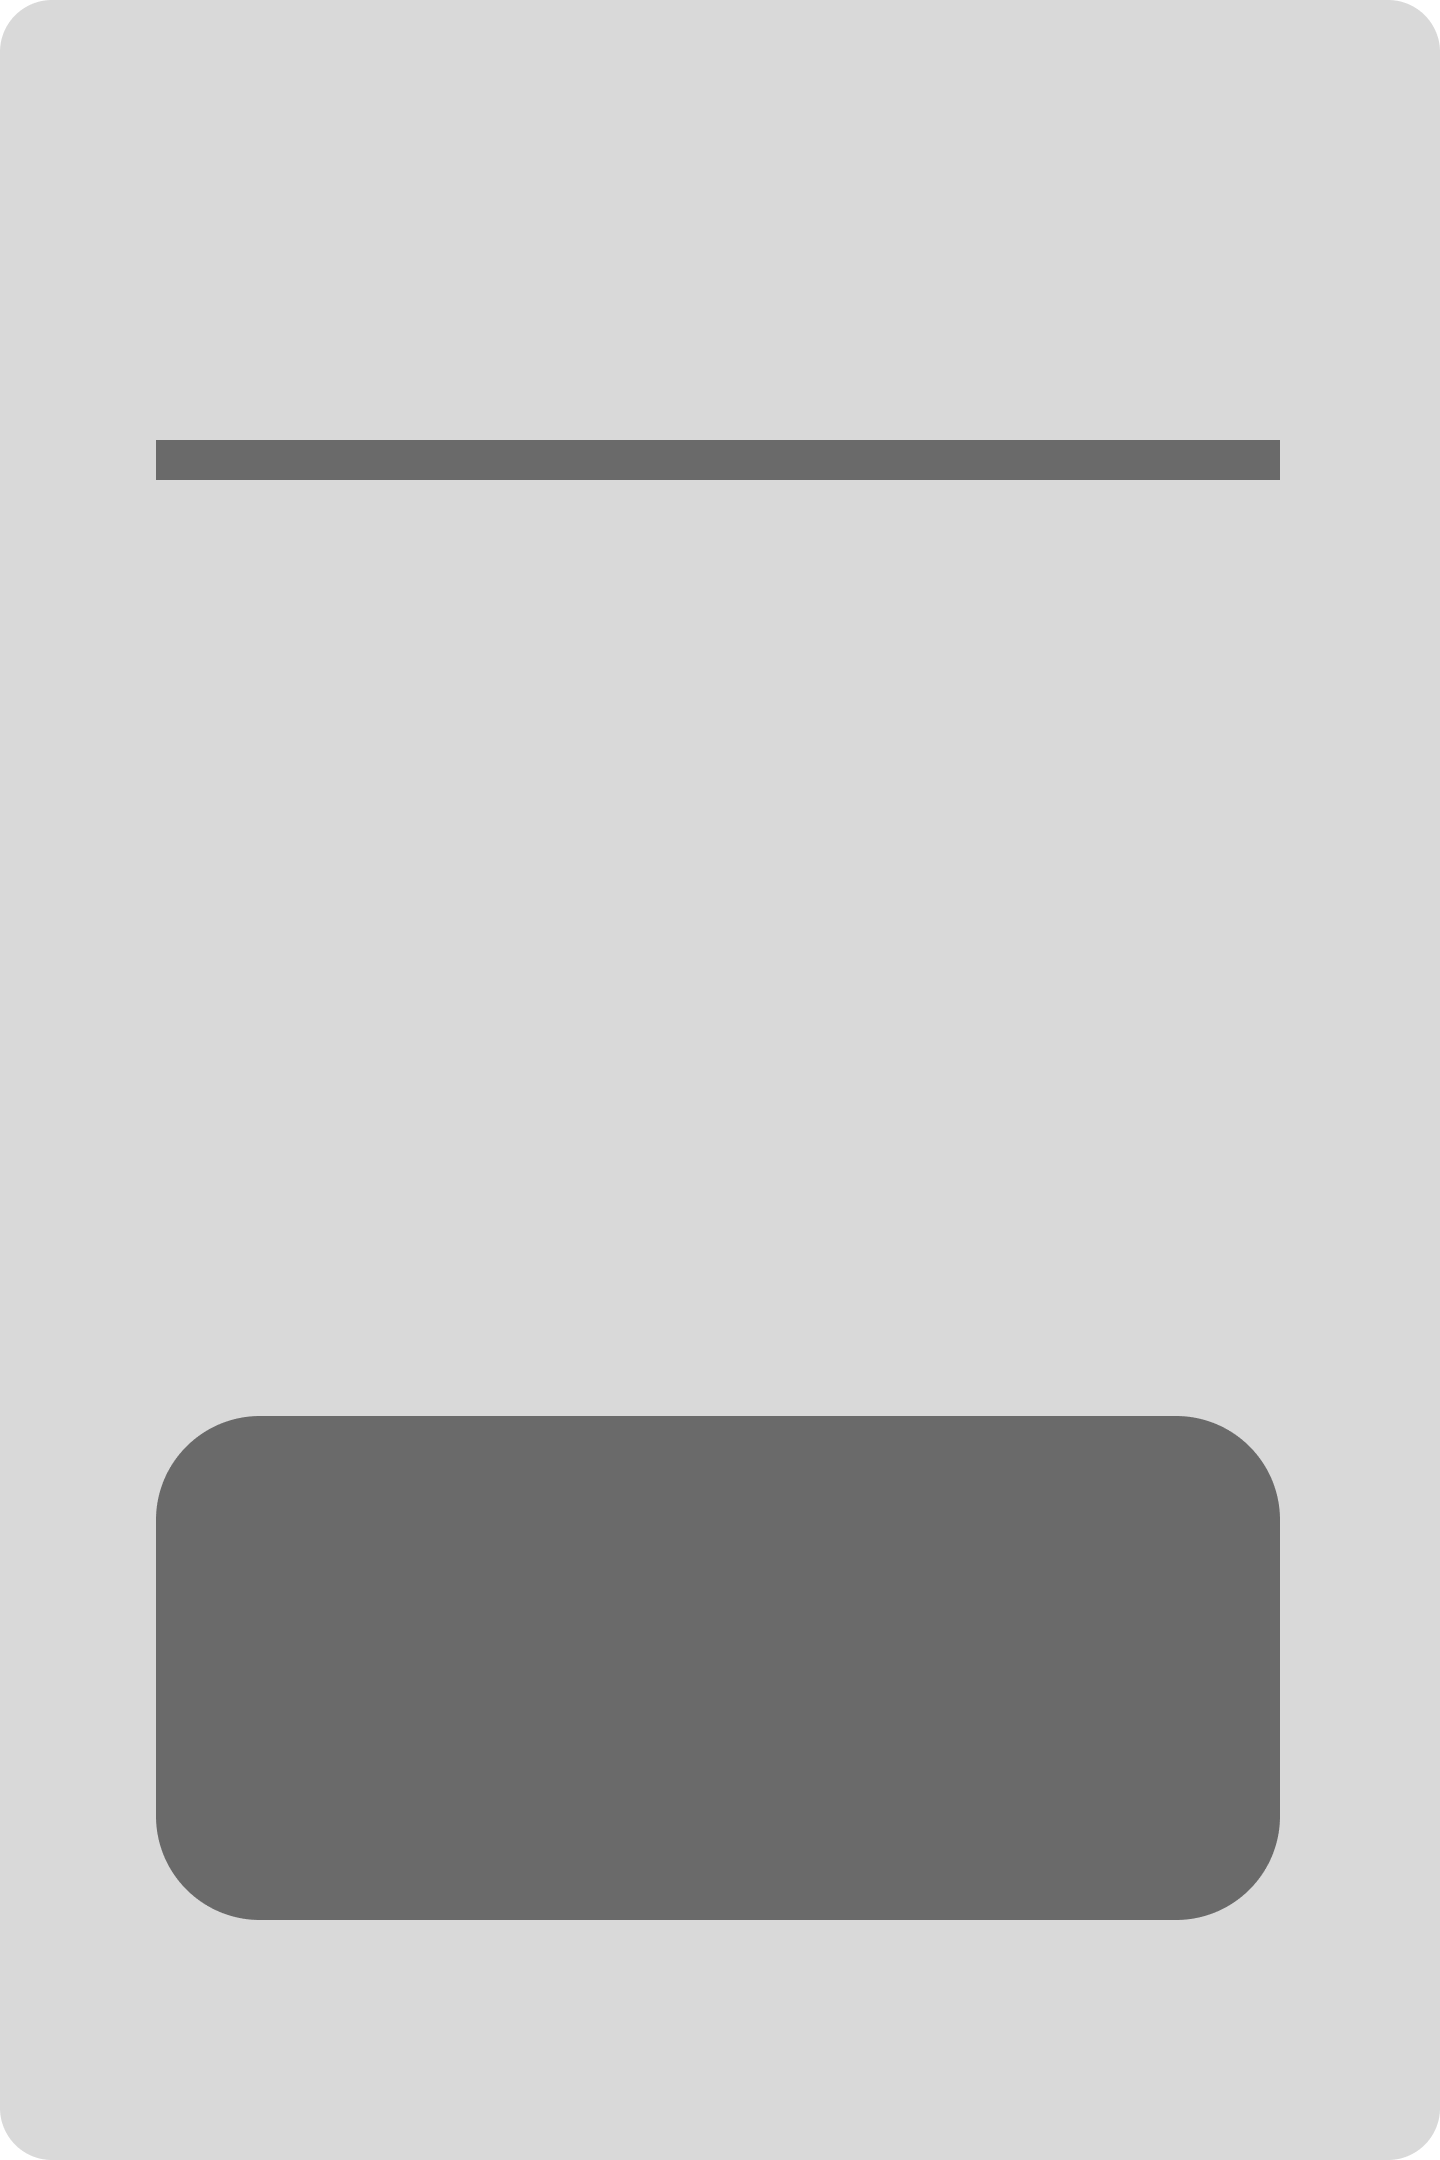
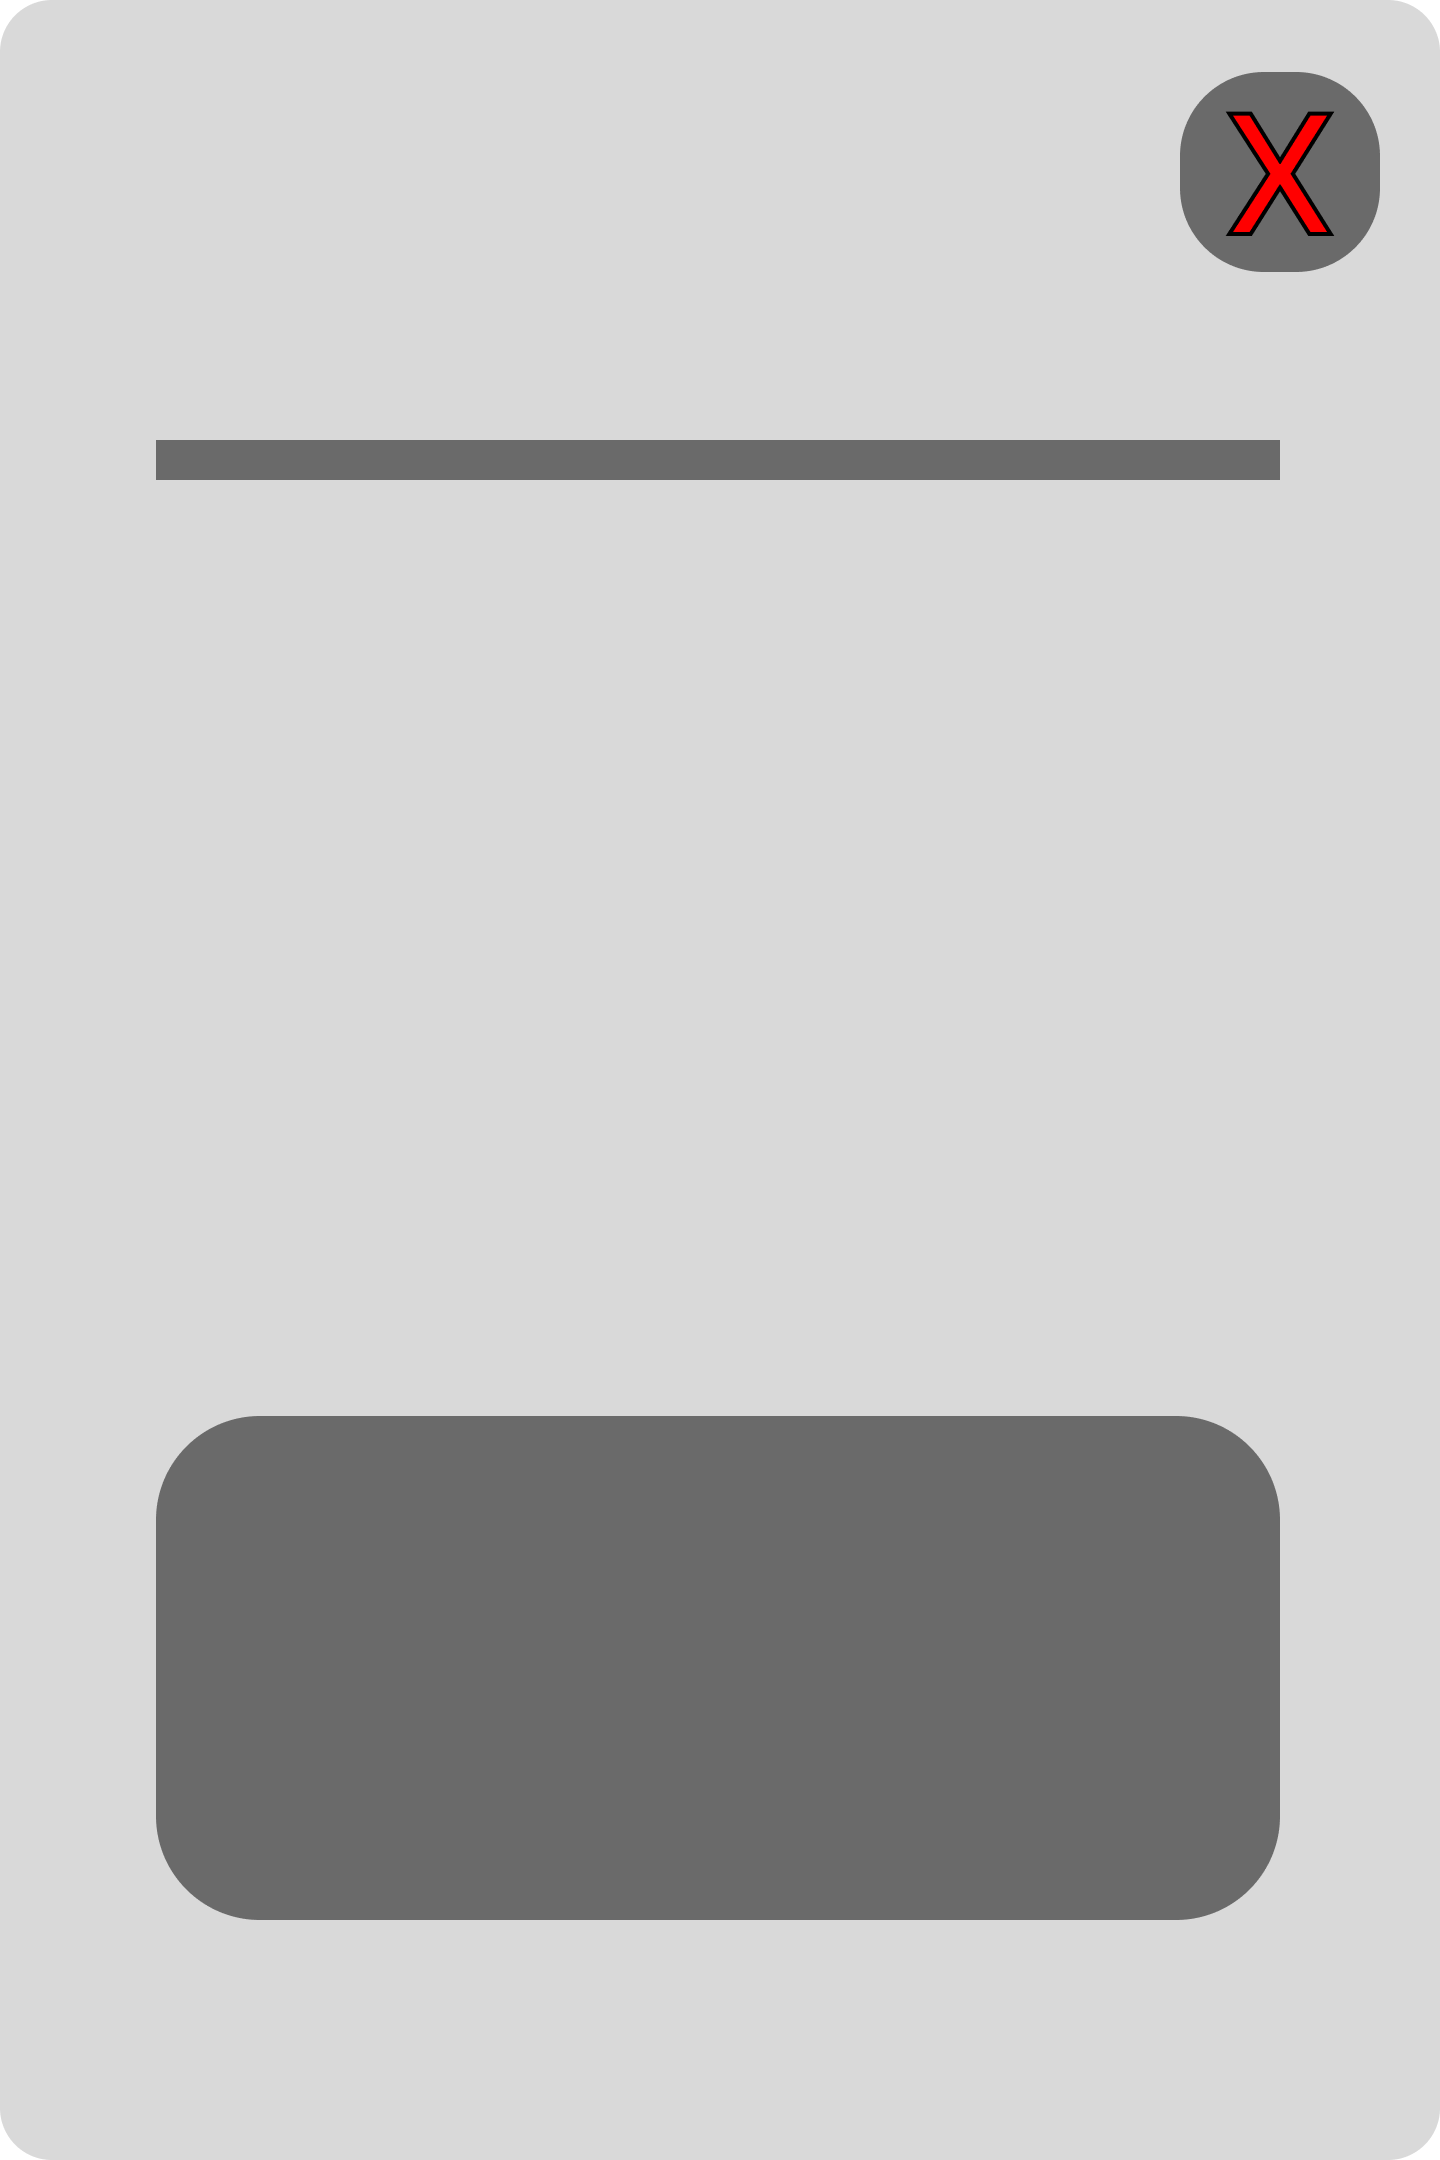
confirm tab

Changed region(s): [[0.8125, 0.031, 0.9688, 0.1241]]

diff --git a/Assets/Scripts/LevelManager.cs b/Assets/Scripts/LevelManager.cs
@@ -25,6 +25,14 @@ public class LevelManager : MonoBehaviour
 
     private bool inChallenge;
 
+    private string nextUse = "";
+    [Header("---Confirm Screen---")]
+    [SerializeField] private GameObject confirmScreen;
+    [SerializeField] private string confirmUndoInfo;
+    [SerializeField] private string confirmTinyTubeInfo;
+    [SerializeField] private TMP_Text confirmInfoText;
+    [SerializeField] private TMP_Text confirmCostText;
+
     public static Action<int, bool> OnBeatLevel = delegate { };
     public static Action OnLoadLevel = delegate { };
 
@@ -62,7 +70,8 @@ public class LevelManager : MonoBehaviour
 
     private bool currentGameMode = false;
 
-    private string nextUse = "";
+    
+
 
     private void Awake()
     {
@@ -137,8 +146,10 @@ public class LevelManager : MonoBehaviour
             }
             else if (coins >= undoCost)
             {
-                UndoLastMove();
-                coins -= undoCost;
+                nextUse = "undo";
+                confirmScreen.SetActive(true);
+                confirmInfoText.text = confirmUndoInfo;
+                confirmCostText.text = undoCost.ToString();
             }
         }
     }
@@ -147,16 +158,25 @@ public class LevelManager : MonoBehaviour
     {
         if (coins >= tinyTubeCost)
         {
-            tinyTubeButton.SetActive(false);
-            tinyTube.SetActive(true);
-            coins -= tinyTubeCost;
-            isTinyTubeActive = true;
+            nextUse = "tinyTube";
+            confirmScreen.SetActive(true);
+            confirmInfoText.text = confirmTinyTubeInfo;
+            confirmCostText.text = tinyTubeCost.ToString();
         }
     }
 
     public void OnConfirmNextFuction()
     {
+        if (nextUse.Equals("undo"))
+        {
+            ConfirmUndo();
+        }
+        else if (nextUse.Equals("tinyTube"))
+        {
+            ConfirmTinyTube();
+        }
 
+        confirmScreen.SetActive(false);
     }
 
     public void OnClickHint()
@@ -164,14 +184,24 @@ public class LevelManager : MonoBehaviour
 
     }
 
+    public void OnCancelConfirm()
+    {
+        confirmScreen.SetActive(false);
+        nextUse = "";
+    }
+
     private void ConfirmTinyTube()
     {
-
+        tinyTubeButton.SetActive(false);
+        tinyTube.SetActive(true);
+        coins -= tinyTubeCost;
+        isTinyTubeActive = true;
     }
 
     private void ConfirmUndo()
     {
-
+        UndoLastMove();
+        coins -= undoCost;
     }
     #endregion
 
@@ -275,17 +305,20 @@ public class LevelManager : MonoBehaviour
                 {
                     Tube firstTube = firstTubeClicked.GetComponent<Tube>(); // move balls into tubeObject from firstTubeClicked
 
-                    if (firstTube.NumberMoving() <= currentTube.NumOpenSpots() && (firstTube.GetTopBall() == currentTube.GetBottomBall() || currentTube.EmptyTube() || currentTube.isTinyTube))
+                    if ((firstTube.NumberMoving() <= currentTube.NumOpenSpots() && (firstTube.GetTopBall() == currentTube.GetBottomBall() || currentTube.EmptyTube())) || (currentTube.isTinyTube && currentTube.EmptyTube()))
                     {
                         int ballCount = firstTube.NumberMoving() - 1;
 
                         currentTube.NewBallToBottom(firstTube.GetTopBall(), firstTube.ballObjects[0], firstTube);
                         firstTube.RemoveTopBall();
 
-                        for (int i = 0; i < ballCount; ++i)
+                        if (!currentTube.isTinyTube)
                         {
-                            currentTube.NewBallToBottom(firstTube.GetBottomBall(), firstTube.ballObjects[firstTube.BottomIndex()], firstTube);
-                            firstTube.RemoveBottomBall();
+                            for (int i = 0; i < ballCount; ++i)
+                            {
+                                currentTube.NewBallToBottom(firstTube.GetBottomBall(), firstTube.ballObjects[firstTube.BottomIndex()], firstTube);
+                                firstTube.RemoveBottomBall();
+                            }
                         }
 
                         firstTubeClicked = null;
